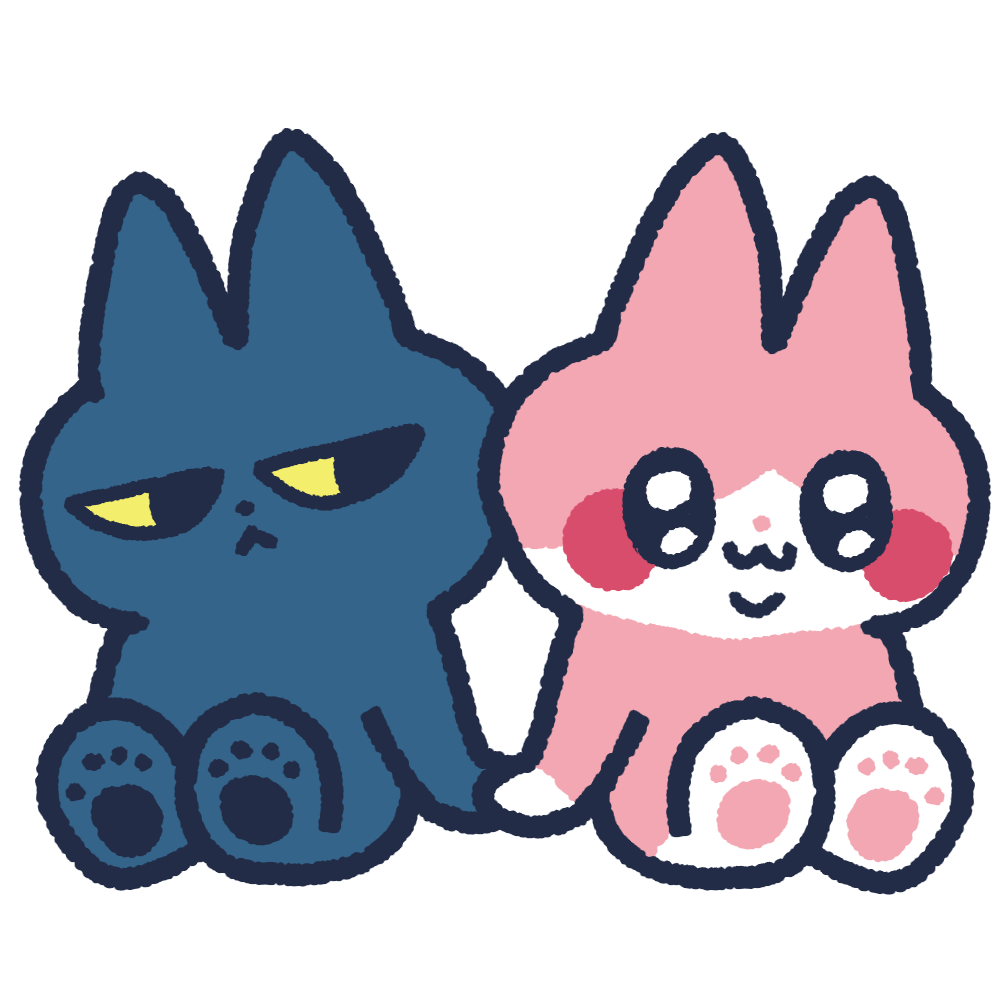
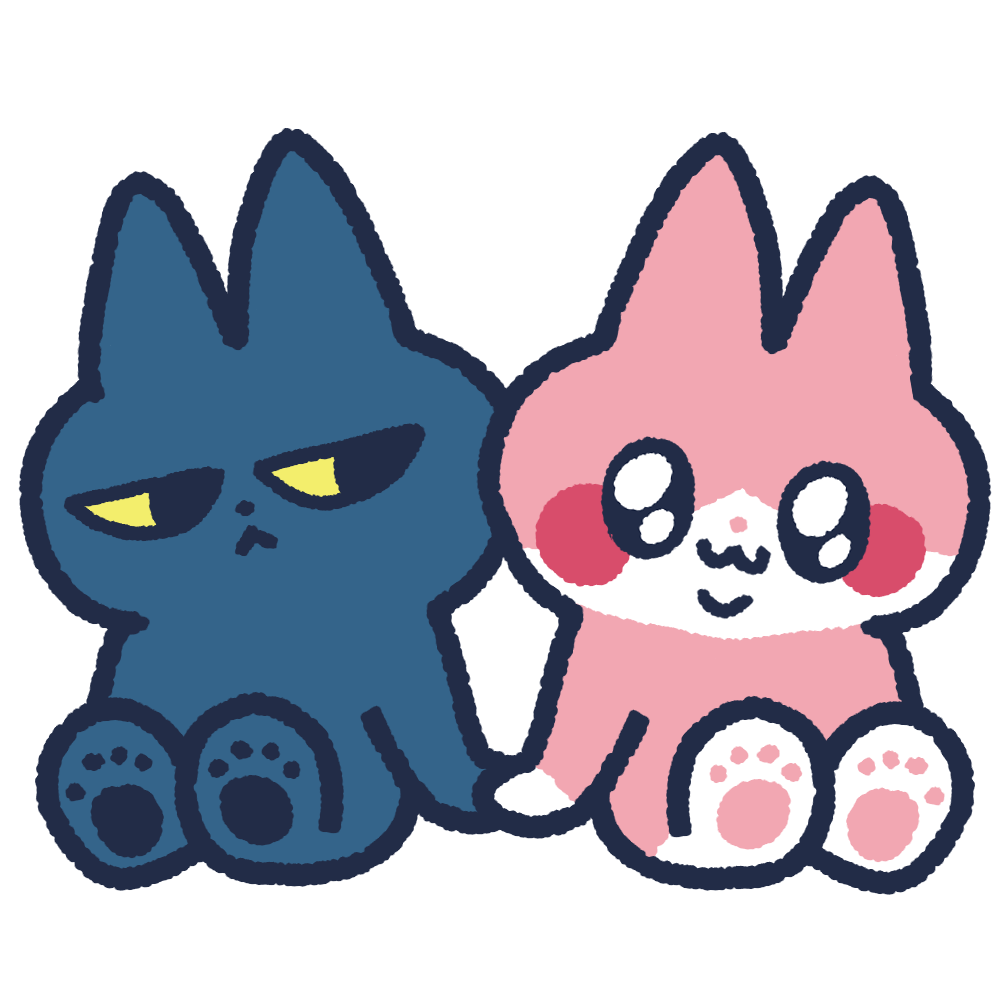
Add hero image and improve layout
- Add hero.png to security message section

- Add 4th step: Get exclusive Writter badge

- Change title from '繝医・繧ｯ繝・・繧ｿ縺ｮ菴懊ｊ譁ｹ' to '驕翫・譁ｹ'

- Add company link to footer

- Reduce security message width on PC (max-w-xl)

- Update character images

Changed region(s): [[0.527, 0.434, 0.961, 0.62]]

diff --git a/app/_components/how-to-section.tsx b/app/_components/how-to-section.tsx
@@ -19,15 +19,21 @@ const steps = [
     title: "トークファイルをアップ",
     description: "トーク履歴のテキストファイルをこのページにアップロードします。トーク内容はサーバーに保存されないので、安心してお使いいただけます！ページ更新をすると消えてしまうから、結果はスクショしてね！",
   },
+  {
+    number: 4,
+    image: "/talklens/logo_w1.png",
+    title: "限定バッジをゲット",
+    description: "分析後にSNSアプリ『Writter』のプロフィールで使用できる限定バッジがゲットできるよ！",
+  },
 ]
 
 export function HowToSection() {
   return (
-    <section className="px-4 py-16 w-full max-w-6xl mx-auto">
-      <h2 className="text-3xl font-bold text-center mb-12" style={{ color: '#080D12' }}>トークデータの作り方</h2>
+    <section className="px-4 py-16 w-full max-w-7xl mx-auto">
+      <h2 className="text-3xl font-bold text-center mb-12" style={{ color: '#080D12' }}>遊び方</h2>
 
       {/* マルチカラムレイアウト */}
-      <div className="grid grid-cols-1 md:grid-cols-3 gap-6 md:gap-8">
+      <div className="grid grid-cols-1 md:grid-cols-2 lg:grid-cols-4 gap-6 md:gap-8">
         {steps.map((step, index) => (
           <div 
             key={step.number} 

diff --git a/app/_components/hero-section.tsx b/app/_components/hero-section.tsx
@@ -60,9 +60,18 @@ export function HeroSection({ onFileSelect, isAnalyzing }: HeroSectionProps) {
       </p>
 
       {/* 安心メッセージ - 刷新されたデザイン */}
-      <div className="w-full max-w-3xl mx-auto mb-2">
+      <div className="w-full max-w-xl mx-auto mb-2">
         <div className="bg-white/80 backdrop-blur-sm border border-cyan-100 rounded-2xl p-6 text-center shadow-sm relative overflow-hidden">
-              <p className="text-slate-800 font-bold leading-relaxed text-base">
+          {/* Hero画像 */}
+          <div className="flex justify-center mb-4">
+            <img 
+              src="/talklens/hero.png" 
+              alt="安心分析" 
+              className="w-32 h-32 object-contain drop-shadow-lg"
+            />
+          </div>
+          
+          <p className="text-slate-800 font-bold leading-relaxed text-base">
             AI読み込みなし、サーバー保存なし！<br />
             運営も見れない仕組みだから<br />
             <span className="text-cyan-600 border-b-2 border-cyan-200">安心して分析</span>できるよ！

diff --git a/app/_components/footer.tsx b/app/_components/footer.tsx
@@ -92,6 +92,8 @@ export function Footer() {
             <a href="https://golden-beam.com/contact" target="_blank" rel="noopener noreferrer" className="hover:text-slate-900 transition-colors">法人お問い合わせ</a>
             <span className="text-slate-300">|</span>
             <a href="#" className="hover:text-slate-900 transition-colors">ログイン</a>
+            <span className="text-slate-300">|</span>
+            <a href="https://golden-beam.com" target="_blank" rel="noopener noreferrer" className="hover:text-slate-900 transition-colors">運営会社</a>
           </div>
 
           {/* SNS Share Section */}
